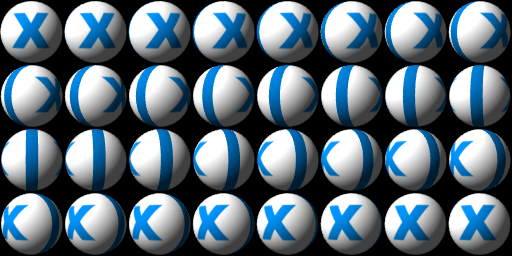
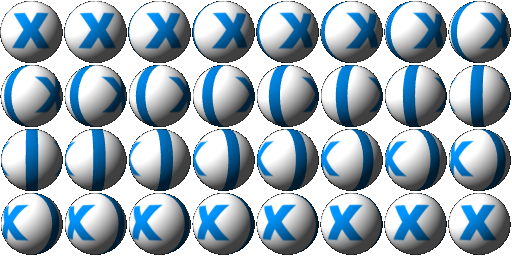
added ability to play backwards, i.e. set a previous frame to the end position

diff --git a/jquery.animatedSprite.js b/jquery.animatedSprite.js
@@ -4,6 +4,29 @@
     /*
      *  Private Methods
      */
+     var calculateFrameIndex = function(layout, point) {
+        var index = 0,
+            col = point[0],
+            row = point[1];
+
+        for(var i = 0; i < row-1; i++) {
+            index += layout[i];
+        }
+
+        index += col;
+        return index;
+     };
+
+     var isPlayingForward = function(layout, currentPoint, endPoint) {
+        var currentPointIndex = calculateFrameIndex(layout, currentPoint);
+        var endPointIndex = calculateFrameIndex(layout, endPoint);
+
+        if(currentPointIndex < endPointIndex) {
+            return true;
+        } else {
+            return false;
+        }
+     };
 
      var onNextFrame = function($this) {
 
@@ -43,25 +66,41 @@
                 renderCurrentFrame($this);
             }
         }
-        //is end of row
-        else if(currentColumn == data.layout[currentRow-1]) {
-            //is last row
-            if(currentRow == data.layout.length) {
-            }
-            //is not last row
-            else {
-                //move to next row
-                data.currentPoint = [1, currentRow+1];
-                renderCurrentFrame($this);
-                nextFrame($this);
-            }
-        }
-        //is not end of row
         else {
-            data.currentPoint = [currentColumn+1, currentRow];
-            renderCurrentFrame($this);
-            nextFrame($this);
+            var playingForward = isPlayingForward(data.layout, data.currentPoint, data.endPoint);
+            var newRow;
+
+            if(playingForward) {
+                //is end of row
+                if(currentColumn == data.layout[currentRow-1]) {
+                    //move to next row
+                    data.currentPoint = [1, currentRow+1];
+                    renderCurrentFrame($this);
+                    nextFrame($this);
+                } else {
+                    data.currentPoint = [currentColumn+1, currentRow];
+                    renderCurrentFrame($this);
+                    nextFrame($this);
+                }
+            } else {
+                //is start of row
+                if(currentColumn == 1) {
+                    //move to prev row
+                    newRow = currentRow-1;
+                    data.currentPoint = [data.layout[newRow], newRow];
+                    renderCurrentFrame($this);
+                    nextFrame($this);
+                } else {
+                    data.currentPoint = [currentColumn-1, currentRow];
+                    renderCurrentFrame($this);
+                    nextFrame($this);
+                }
+            }
+
+
         }
+
+        console.log("data.currentPoint", data.currentPoint);
 
         $this.data('animatedSprite', data);
     };

diff --git a/example/js/main.js b/example/js/main.js
@@ -1,26 +1,47 @@
 $(document).ready(function() {
 
-    var winWidth = $(window).width();
+    var winWidth = $(window).width(),
+        winHeight = $(window).height();
+
+    for(var i = 0; i < 10; i++) {
+        $('body').append('<div class="sprite" style="left: '+Math.floor(Math.random()*winWidth)+'px; top: '+Math.floor(Math.random()*winHeight)+'px;"></div>');
+    };
 
     $.each($('.sprite'), function(i,n) {
-        $(n).animatedSprite({
-            fps: 30,
-            startPoint: [1,1],
-            endPoint: [8,4],
-            layout: [8, 8, 8, 8],
-            loop: "*",
-            autoStart: true,
-            resetAtEnd: true
-        })
+        if(i%2 == 0) {
+           $(n).animatedSprite({
+                fps: Math.floor(Math.random()*100)+30,
+                startPoint: [8,4],
+                endPoint: [1,1],
+                layout: [8, 8, 8, 8],
+                loop: "*",
+                autoStart: true,
+                resetAtEnd: true
+            });
+       } else {
+            $(n).animatedSprite({
+                fps: Math.floor(Math.random()*100)+30,
+                startPoint: [1,1],
+                endPoint: [8,4],
+                layout: [8, 8, 8, 8],
+                loop: "*",
+                autoStart: true,
+                resetAtEnd: true
+            });
+       }
+
     });
 
     //$('#sprite').animatedSprite("play", {startPoint: [1,2], endPoint: [6,2]});
 
-    $(document).mousemove(function(e) {
-        var xPercenage = e.pageX/winWidth;
-        var fps = Math.floor((xPercenage*200)+30);
-        $('.sprite').animatedSprite("update", {fps: fps});
-    });
+
+
+
+    // $(document).mousemove(function(e) {
+    //     var xPercenage = e.pageX/winWidth;
+    //     var fps = Math.floor((xPercenage*200)+30);
+    //     $('.sprite').animatedSprite("update", {fps: fps});
+    // });
 
 });
 
